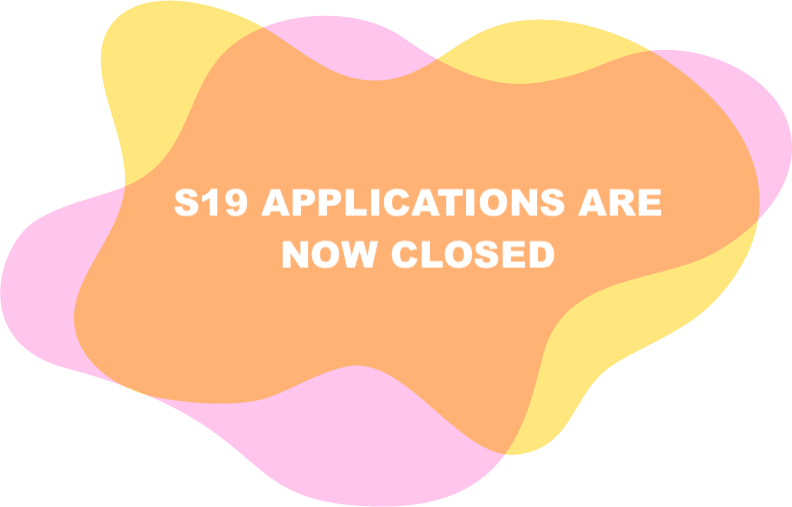
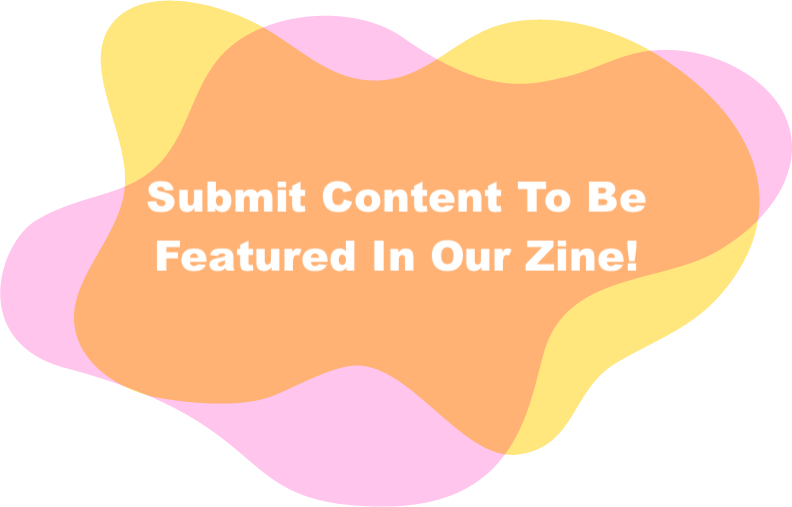
changes thru showing mag #3

Changed region(s): [[0.1818, 0.355, 0.8485, 0.4438], [0.1818, 0.4734, 0.8182, 0.5325]]

diff --git a/src/components/PastMags/Mag002.jsx b/src/components/PastMags/Mag002.jsx
@@ -1,10 +1,49 @@
 import React, { Component } from 'react'
+import './Mag.css';
+
+import img1 from '../assets/issue_2/2_1.png'
+import img2 from '../assets/issue_2/2_2.png'
+import img3 from '../assets/issue_2/2_3.png'
+import img4 from '../assets/issue_2/2_4.png'
+import img5 from '../assets/issue_2/2_5.png'
+import img6 from '../assets/issue_2/2_6.png'
+import img7 from '../assets/issue_2/2_7.png'
+import img8 from '../assets/issue_2/2_8.png'
+import img9 from '../assets/issue_2/2_9.png'
+import img10 from '../assets/issue_2/2_10.png'
+import img11 from '../assets/issue_2/2_11.png'
+import img12 from '../assets/issue_2/2_12.png'
+import img13 from '../assets/issue_2/2_13.png'
+import img14 from '../assets/issue_2/2_14.png'
+import img15 from '../assets/issue_2/2_15.png'
+import img16 from '../assets/issue_2/2_16.png'
+import img17 from '../assets/issue_2/2_17.png'
+import img18 from '../assets/issue_2/2_18.png'
+import img19 from '../assets/issue_2/2_19.png'
 
 export default class Mag002 extends Component {
   render() {
     return (
-      <div>
-        Coming soon...
+      <div className="image-container">        
+        <img src={img1} className="image"></img>
+        <img src={img2} className="image"></img>
+        <img src={img3} className="image"></img>
+        <img src={img4} className="image"></img>
+        <img src={img5} className="image"></img>
+        <img src={img6} className="image"></img>
+        <img src={img7} className="image"></img>
+        <img src={img8} className="image"></img>
+        <img src={img9} className="image"></img>
+        <img src={img10} className="image"></img>
+        <img src={img11} className="image"></img>
+        <img src={img12} className="image"></img>
+        <img src={img13} className="image"></img>
+        <img src={img14} className="image"></img>
+        <img src={img15} className="image"></img>
+        <img src={img16} className="image"></img>
+        <img src={img17} className="image"></img>
+        <img src={img18} className="image"></img>
+        <img src={img19} className="image"></img>
       </div>
     )
   }

diff --git a/src/components/PastMags/Mag003.jsx b/src/components/PastMags/Mag003.jsx
@@ -1,10 +1,45 @@
 import React, { Component } from 'react'
+import './Mag.css';
+
+import img1 from '../assets/issue_3/3_1.png'
+import img2 from '../assets/issue_3/3_2.png'
+import img3 from '../assets/issue_3/3_3.png'
+import img4 from '../assets/issue_3/3_4.png'
+import img5 from '../assets/issue_3/3_5.png'
+import img6 from '../assets/issue_3/3_6.png'
+import img7 from '../assets/issue_3/3_7.png'
+import img8 from '../assets/issue_3/3_8.png'
+import img9 from '../assets/issue_3/3_9.png'
+import img10 from '../assets/issue_3/3_10.png'
+import img11 from '../assets/issue_3/3_11.png'
+import img12 from '../assets/issue_3/3_12.png'
+import img13 from '../assets/issue_3/3_13.png'
+import img14 from '../assets/issue_3/3_14.png'
+import img15 from '../assets/issue_3/3_15.png'
+import img16 from '../assets/issue_3/3_16.png'
+import img17 from '../assets/issue_3/3_17.png'
 
 export default class Mag003 extends Component {
   render() {
     return (
-      <div>
-        Coming soon...
+      <div className="image-container">        
+        <img src={img1} className="image"></img>
+        <img src={img2} className="image"></img>
+        <img src={img3} className="image"></img>
+        <img src={img4} className="image"></img>
+        <img src={img5} className="image"></img>
+        <img src={img6} className="image"></img>
+        <img src={img7} className="image"></img>
+        <img src={img8} className="image"></img>
+        <img src={img9} className="image"></img>
+        <img src={img10} className="image"></img>
+        <img src={img11} className="image"></img>
+        <img src={img12} className="image"></img>
+        <img src={img13} className="image"></img>
+        <img src={img14} className="image"></img>
+        <img src={img15} className="image"></img>
+        <img src={img16} className="image"></img>
+        <img src={img17} className="image"></img>
       </div>
     )
   }

diff --git a/src/components/ViewSubmissions.jsx b/src/components/ViewSubmissions.jsx
@@ -41,7 +41,7 @@ export default class ViewSubmissions extends Component {
                         <ul className="submission-header">
                             <li>
                                 <div onClick="">{submission.title} by {submission.name}</div>
-                                (<a href="{submission.link}" target="_blank">link to work</a>) 
+                                (<a href={submission.link} target="_blank">link to work</a>) 
                                 (<a href={submission.websiteLink} target="_blank">link to artist website</a>)
                             </li>
                             <ul>

diff --git a/src/components/css/Nav.css b/src/components/css/Nav.css
@@ -9,9 +9,10 @@ body {
 }
 
 .logo {
+    position: fixed;
     width: 220px;
-    margin-left: 10%;
-    margin-top: 10%;
+    margin-left: 1%;
+    margin-top: 1%;
 }
 
 .archive-link {
@@ -23,10 +24,9 @@ body {
     font-size: 18px;
     text-align: right;
     margin-left: auto;
-    margin-left: 60%;
+    margin-left: 77%;
     margin-top: 2.2%;
 }
-
 
 .submissions-link {
     position: fixed;
@@ -37,6 +37,6 @@ body {
     font-size: 18px;
     text-align: right;
     margin-left: auto;
-    margin-left: 68%;
+    margin-left: 85%;
     margin-top: 2.2%;
 }

diff --git a/public/index.html b/public/index.html
@@ -2,7 +2,7 @@
 <html lang="en">
   <head>
     <meta charset="utf-8" />
-    <meta name="viewport" content="width=device-width, initial-scale=1, shrink-to-fit=no" />
+    <meta name="viewport" content="width=device-width, maximum-scale=1.5" />
     <title>ROSKI MAG</title>
     <link rel="shortcut icon" href="./favicon.ico" type="image/x-icon">
   </head>

diff --git a/src/components/Home.jsx b/src/components/Home.jsx
@@ -15,7 +15,7 @@ const Home = () => {
 			</p>
 
 			<div className="home-apply">
-				<img src={blob} alt="blob" className="home-vector1" />
+				<a href="http://roskimag.com/#/submissions"><img src={blob} alt="blob" className="home-vector1" /></a>
 			</div>
 		</div>
 	);

diff --git a/src/components/css/Archive.css b/src/components/css/Archive.css
@@ -9,7 +9,7 @@
     width: 100%;
     grid-template-columns: repeat(6, auto);
     grid-gap:20px;
-    padding-top: 18%;
+    padding-top: 24%;
 }
 
 a:link, a:visited {

diff --git a/src/components/PastMags/Mag.css b/src/components/PastMags/Mag.css
@@ -5,7 +5,7 @@
 }
 
 .image-container {
-    padding-top: 8%;
+    padding-top: 12%;
     display: inline-block;
     white-space: nowrap;
     overflow: visible;

diff --git a/src/components/PastMags/Mag004.jsx b/src/components/PastMags/Mag004.jsx
@@ -4,7 +4,6 @@ export default class Mag004 extends Component {
   render() {
     return (
       <div>
-        Coming soon...
       </div>
     )
   }

diff --git a/src/components/PastMags/Mag006.jsx b/src/components/PastMags/Mag006.jsx
@@ -4,7 +4,6 @@ export default class Mag006 extends Component {
   render() {
     return (
       <div>
-        Coming soon...
       </div>
     )
   }

diff --git a/src/components/css/Home.css b/src/components/css/Home.css
@@ -15,7 +15,7 @@ body {
 .home-container {
 	display: grid;
 	grid-template-rows: 470px 150px;
-	margin-top: -4%;
+	margin-top: 2%;
 }
 
 .home-body {

diff --git a/src/components/css/Submissions.css b/src/components/css/Submissions.css
@@ -19,7 +19,7 @@ form {
 	grid-row-gap: 20px;
 	justify-content: center;
 	align-items: center;
-	margin-top: 6%
+	margin-top: 14%
 }
 
 .submit {
